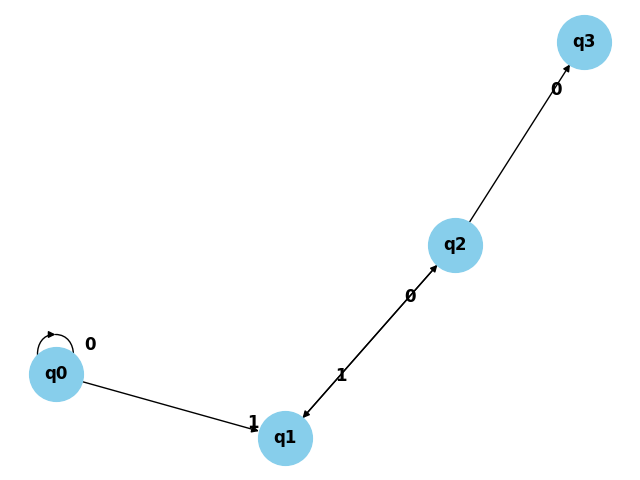
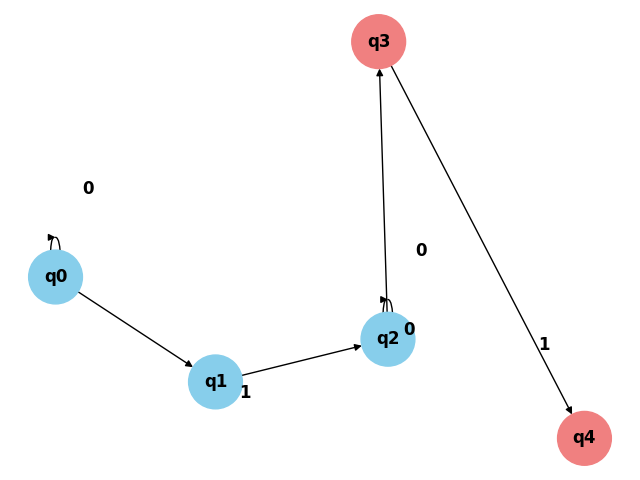
fix visual, nodos finales destacados

diff --git a/validador.py b/validador.py
@@ -1,5 +1,6 @@
 import tkinter as tk
 import automata
+#Librerias a importar
 import networkx as nx               # grafo
 import matplotlib.pyplot as plt     #grafo bonito
 from PIL import Image, ImageTk      #
@@ -11,28 +12,29 @@ def show(root, estado_inicial, conjunto_estados_finales, transiciones):
     farm_validador = tk.Frame(root)
     farm_validador.pack()
     
-    
-    tk.Label(farm_validador, text="Ingrese palabra:").grid(row=0, column=0)
+    tk.Label(farm_validador, text="Ingrese palabra:").grid(row=350, column=0, pady=8)
     palabra = tk.Entry(farm_validador)
-    palabra.grid(row=0, column=1)
+    palabra.grid(row=350, column=1, pady=5)
 
     resultado_label = tk.Label(farm_validador, text="")
-    resultado_label.grid(row=2, columnspan=2)
+    resultado_label.grid(row=351, column =1, pady=5)
 
-    boton_buscar = tk.Button(farm_validador, text="verificar", command=lambda: revisar_palabra(
+    boton_buscar = tk.Button(farm_validador, text="Verificar", command=lambda: revisar_palabra(
         resultado_label,transiciones, palabra.get(), estado_inicial, conjunto_estados_finales))
-    boton_buscar.grid(row=1, columnspan=2)
+    boton_buscar.grid(row=353,columnspan=2,pady=8)
 
     # Botón para volver al formulario
     boton_volver = tk.Button(farm_validador, text="Nuevo Automata",
                               command=lambda: volver_al_formulario(root, farm_validador))
-    boton_volver.grid(row=3, columnspan=2)
+    boton_volver.grid(row=354, columnspan=2)
+    
+    plot_graph(transiciones,farm_validador,conjunto_estados_finales)
 
         # Botón para volver al graficar
-    boton_graficar = tk.Button(farm_validador, text="Graficar Automata",
-                              command=lambda: plot_graph(transiciones,farm_validador)
+    boton_graficar = tk.Button(farm_validador, text="Recargar Automata",
+                              command=lambda: plot_graph(transiciones,farm_validador,conjunto_estados_finales)
                               )
-    boton_graficar.grid(row=4, columnspan=2)
+    boton_graficar.grid(row=353,columnspan=1 ,pady=8)
 
 # Función para volver al formulario
 def volver_al_formulario(root, farm_validador):
@@ -59,8 +61,7 @@ def evaluar_palabra(transiciones, palabra, estado_inicial, conjunto_estados_fina
         estado_actual = transiciones[transicion]
     return estado_actual in conjunto_estados_finals
 
-
-def plot_graph(transiciones,farm_validador):
+def plot_graph(transiciones,farm_validador,conjunto_estados_finales):
 
     # Clear the previous graph if it exists
     plt.clf()
@@ -100,9 +101,10 @@ def plot_graph(transiciones,farm_validador):
 
     # Draw the graph
     pos = nx.spring_layout(G)
+    node_colors = ['lightcoral' if label in conjunto_estados_finales else 'skyblue' for label in G.nodes()]
 
     # Draw edges
-    nx.draw(G, pos, with_labels=True, node_color='skyblue', node_size=1500, font_size=12, font_weight='bold', arrows=True)
+    nx.draw(G, pos, with_labels=True, node_color=node_colors, node_size=1500, font_size=12, font_weight='bold', arrows=True)
 
     # Add edge labels
     edge_labels = {(q, r): data['label'] for q, r, data in G.edges(data=True)}
@@ -143,7 +145,7 @@ def plot_graph(transiciones,farm_validador):
     img = Image.open("graph.png")
 
     # Resize the image if necessary
-    img = img.resize((400, 300))
+    img = img.resize((550, 300))
 
     # Convert the image to a format that tkinter can display
     img_tk = ImageTk.PhotoImage(img)
@@ -153,8 +155,4 @@ def plot_graph(transiciones,farm_validador):
     image_label.image = img_tk  # Keep a reference to avoid garbage collection
 
     # Place the image label using the grid layout manager
-    image_label.grid(row=5, column=1)  # You can adjust row and column values as needed
-
-    # Place the image label at specific pixel coordinates
-    #image_label.place(x=350, y=21)
-
+    image_label.grid(row=0, column=1)  # You can adjust row and column values as needed

diff --git a/main.py b/main.py
@@ -6,7 +6,7 @@ root = tk.Tk()
 root.title("Automata / Validador")
 
 # Establecer el tamaño de la ventana principal
-root.geometry("650x500")
+root.geometry("650x550")
 
 # Mostrar el formulario inicial
 automata.show(root)
